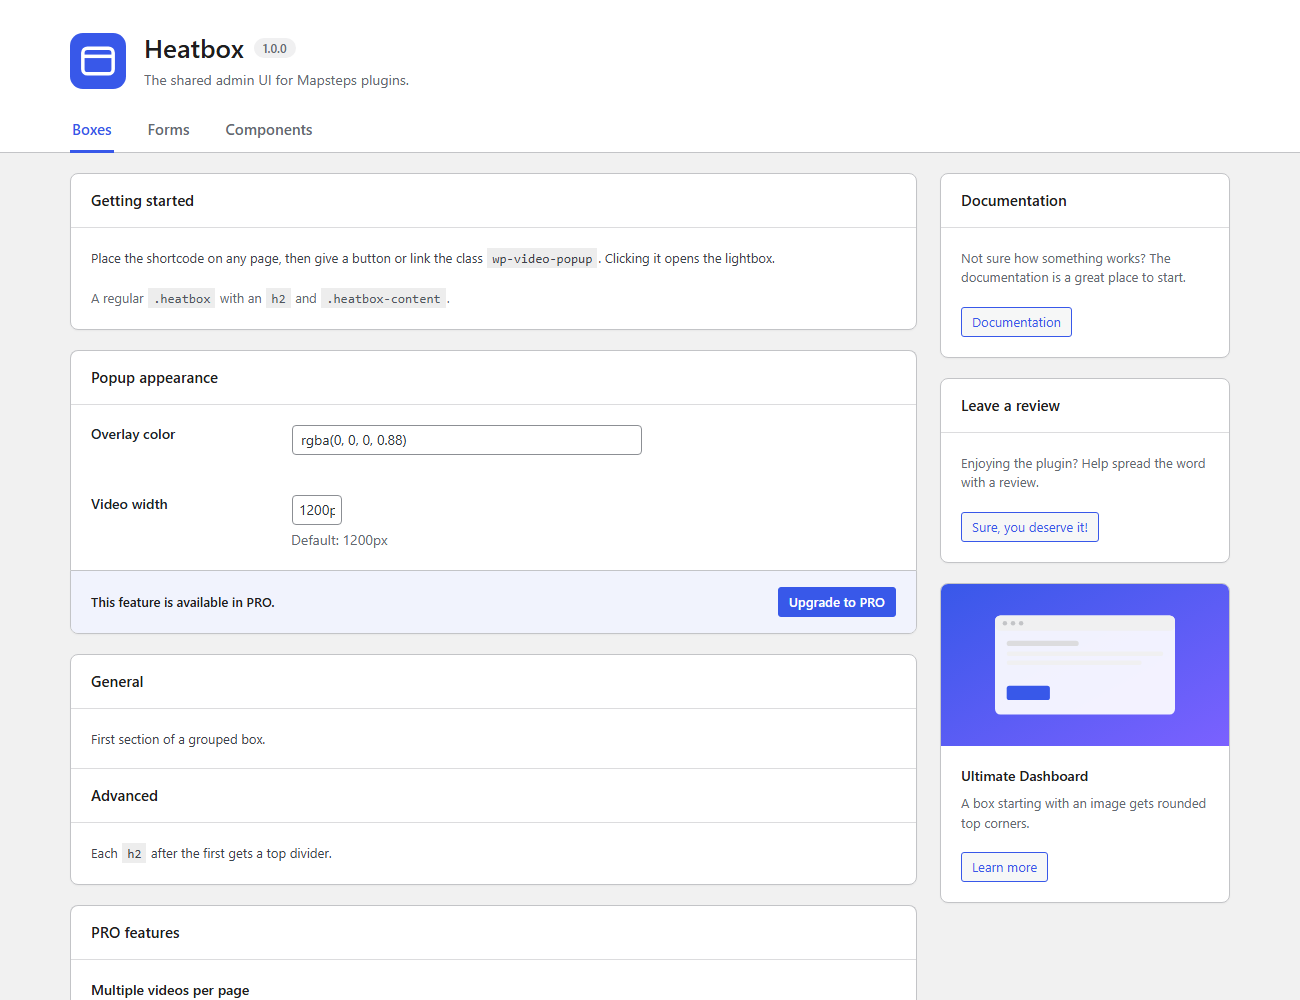
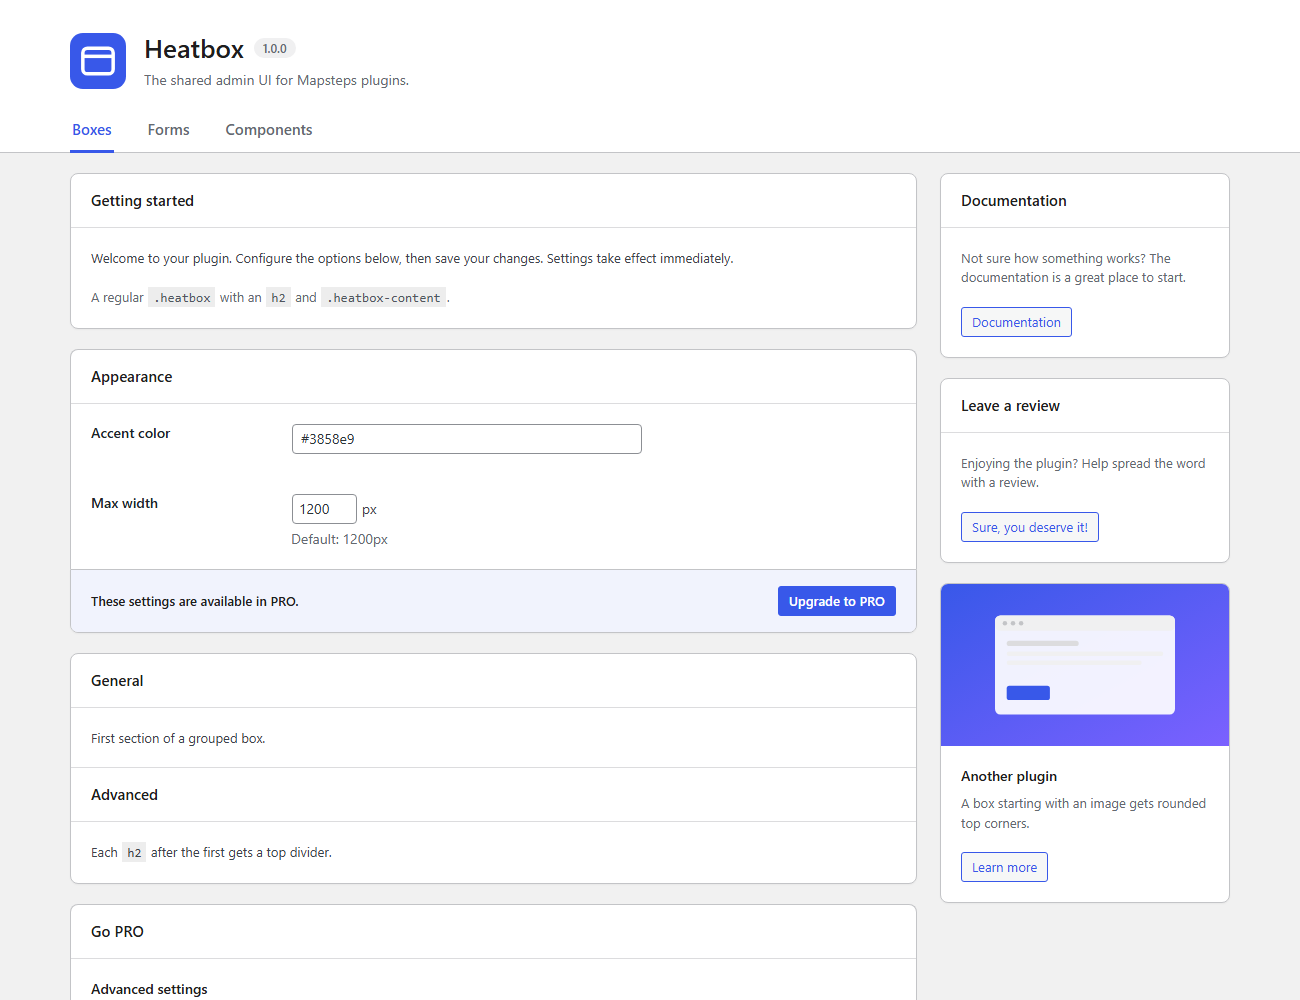
Use generic showcase content and tidy up heatbox.css
- Replace WP Video Popup sample text in the showcase with generic content
- Make .title/.subtitle/.version a single set of rules (no header duplicates)
- Show the loading spinner on non-primary buttons
- Keep the status "done" fade visible with reduced motion
- Retake README screenshots

diff --git a/heatbox.css b/heatbox.css
@@ -196,36 +196,6 @@ body {
 	width: 120px;
 }
 
-.heatbox-header .logo-container .title {
-	display: flex;
-	flex-wrap: wrap;
-	align-items: center;
-	gap: 10px;
-	font-size: 26px;
-	font-weight: 600;
-	line-height: 1.25;
-	color: var(--heatbox-text);
-}
-
-.heatbox-header .logo-container .subtitle {
-	margin: 4px 0 0 0;
-	font-size: 14px;
-	line-height: 1.5;
-	color: var(--heatbox-text-muted);
-}
-
-.heatbox-header .logo-container .version {
-	margin: 0;
-	padding: 3px 9px;
-	font-size: 12px;
-	font-weight: 500;
-	line-height: 1.2;
-	color: var(--heatbox-text-muted);
-	background: var(--heatbox-surface-muted);
-	border-radius: 999px;
-	opacity: 1;
-}
-
 /* Tabs: .heatbox-tab-nav (preferred) and legacy .tab-navigation */
 .heatbox-tab-nav,
 .heatbox-header .tab-navigation {
@@ -291,30 +261,35 @@ body {
    ========================================================================== */
 
 .heatbox-wrap .title {
+	display: flex;
+	flex-wrap: wrap;
+	align-items: center;
+	gap: 10px;
 	margin: 0;
 	padding: 0;
-	font-size: 34px;
-	font-weight: 700;
-	line-height: 1;
+	font-size: 26px;
+	font-weight: 600;
+	line-height: 1.25;
+	color: var(--heatbox-text);
 }
 
 .heatbox-wrap .subtitle {
-	margin: var(--heatbox-gap) 0 0 0;
+	margin: 4px 0 0 0;
 	padding: 0;
-	font-size: 20px;
-	line-height: 1;
+	font-size: 14px;
+	line-height: 1.5;
+	color: var(--heatbox-text-muted);
 }
 
 .heatbox-wrap .version {
-	font-size: 45%;
-	font-weight: 600;
-	line-height: 1;
-	vertical-align: middle;
-	margin: 0 5px;
-	padding: 5px 12px;
-	background: var(--heatbox-control);
-	border-radius: 5px;
-	opacity: 0.6;
+	margin: 0;
+	padding: 3px 9px;
+	font-size: 12px;
+	font-weight: 500;
+	line-height: 1.2;
+	color: var(--heatbox-text-muted);
+	background: var(--heatbox-surface-muted);
+	border-radius: 999px;
 }
 
 /* 6. Box
@@ -656,6 +631,10 @@ body {
 	animation: heatboxLoadingSpinner 0.5s infinite linear;
 }
 
+.heatbox-wrap .button.is-loading:not(.button-primary)::after {
+	color: var(--heatbox-accent);
+}
+
 /* Buttons with a dashicon: <a class="button"><span class="dashicons dashicons-book"></span> Text</a> */
 .heatbox-wrap .button:has(> .dashicons) {
 	display: inline-flex;
@@ -959,7 +938,8 @@ body {
 	}
 
 	.heatbox-wrap .button.is-loading::after,
-	.heatbox-status-indicator.is-loading::after {
+	.heatbox-status-indicator.is-loading::after,
+	.heatbox-status-indicator.is-done {
 		animation-duration: 1.5s !important;
 	}
 }

diff --git a/showcase/template.php b/showcase/template.php
@@ -54,23 +54,23 @@ $heatbox_img = HEATBOX_URL . 'showcase/';
 				<div class="heatbox">
 					<h2>Getting started</h2>
 					<div class="heatbox-content">
-						<p>Place the shortcode on any page, then give a button or link the class <code>wp-video-popup</code>. Clicking it opens the lightbox.</p>
+						<p>Welcome to your plugin. Configure the options below, then save your changes. Settings take effect immediately.</p>
 						<p class="description">A regular <code>.heatbox</code> with an <code>h2</code> and <code>.heatbox-content</code>.</p>
 					</div>
 				</div>
 
 				<!-- Box with settings table + attached primary CTA (becomes the box footer) -->
 				<div class="heatbox">
-					<h2>Popup appearance</h2>
+					<h2>Appearance</h2>
 					<table class="form-table">
 						<tr>
-							<th scope="row">Overlay color</th>
-							<td><input type="text" class="regular-text" value="rgba(0, 0, 0, 0.88)"></td>
+							<th scope="row">Accent color</th>
+							<td><input type="text" class="regular-text" value="#3858e9"></td>
 						</tr>
 						<tr>
-							<th scope="row">Video width</th>
+							<th scope="row">Max width</th>
 							<td>
-								<input type="text" class="small-text" value="1200px">
+								<input type="number" class="small-text" value="1200"> px
 								<p class="description">Default: 1200px</p>
 							</td>
 						</tr>
@@ -78,7 +78,7 @@ $heatbox_img = HEATBOX_URL . 'showcase/';
 				</div>
 				<div class="heatbox-cta-container is-attached">
 					<div class="heatbox-cta primary">
-						<p>This feature is available in PRO.</p>
+						<p>These settings are available in PRO.</p>
 						<a href="#" class="button button-primary">Upgrade to PRO</a>
 					</div>
 				</div>
@@ -97,16 +97,16 @@ $heatbox_img = HEATBOX_URL . 'showcase/';
 
 				<!-- Box with an attached container holding free content -->
 				<div class="heatbox">
-					<h2>PRO features</h2>
+					<h2>Go PRO</h2>
 					<div class="heatbox-content">
-						<h3>Multiple videos per page</h3>
-						<p class="description">Add as many popups as you like to a single page.</p>
-						<h3>Video galleries</h3>
-						<p class="description">Let viewers cycle through videos without closing the lightbox.</p>
+						<h3>Advanced settings</h3>
+						<p class="description">Unlock additional options to fine-tune every detail.</p>
+						<h3>Priority support</h3>
+						<p class="description">Get help from the developers directly, usually within a day.</p>
 					</div>
 				</div>
 				<div class="heatbox-cta-container is-attached">
-					<p>Get <strong>70% off PRO</strong> today, applied automatically at checkout.</p>
+					<p>Upgrade to <strong>PRO</strong> to get all features and priority support.</p>
 					<a href="#" class="button button-primary button-larger">Upgrade to PRO</a>
 				</div>
 
@@ -150,7 +150,7 @@ $heatbox_img = HEATBOX_URL . 'showcase/';
 				<div class="heatbox">
 					<a href="#"><img src="<?php echo esc_url( $heatbox_img . 'placeholder.svg' ); ?>" alt=""></a>
 					<div class="heatbox-content">
-						<h3>Ultimate Dashboard</h3>
+						<h3>Another plugin</h3>
 						<p class="description">A box starting with an image gets rounded top corners.</p>
 						<a href="#" class="button">Learn more</a>
 					</div>
@@ -227,12 +227,12 @@ $heatbox_img = HEATBOX_URL . 'showcase/';
 							<th scope="row">Radio buttons</th>
 							<td>
 								<label class="label radio-label">
-									Landscape
+									Option A
 									<input type="radio" name="heatbox_demo_radio" checked>
 									<div class="indicator"></div>
 								</label>
 								<label class="label radio-label">
-									Portrait
+									Option B
 									<input type="radio" name="heatbox_demo_radio">
 									<div class="indicator"></div>
 								</label>
